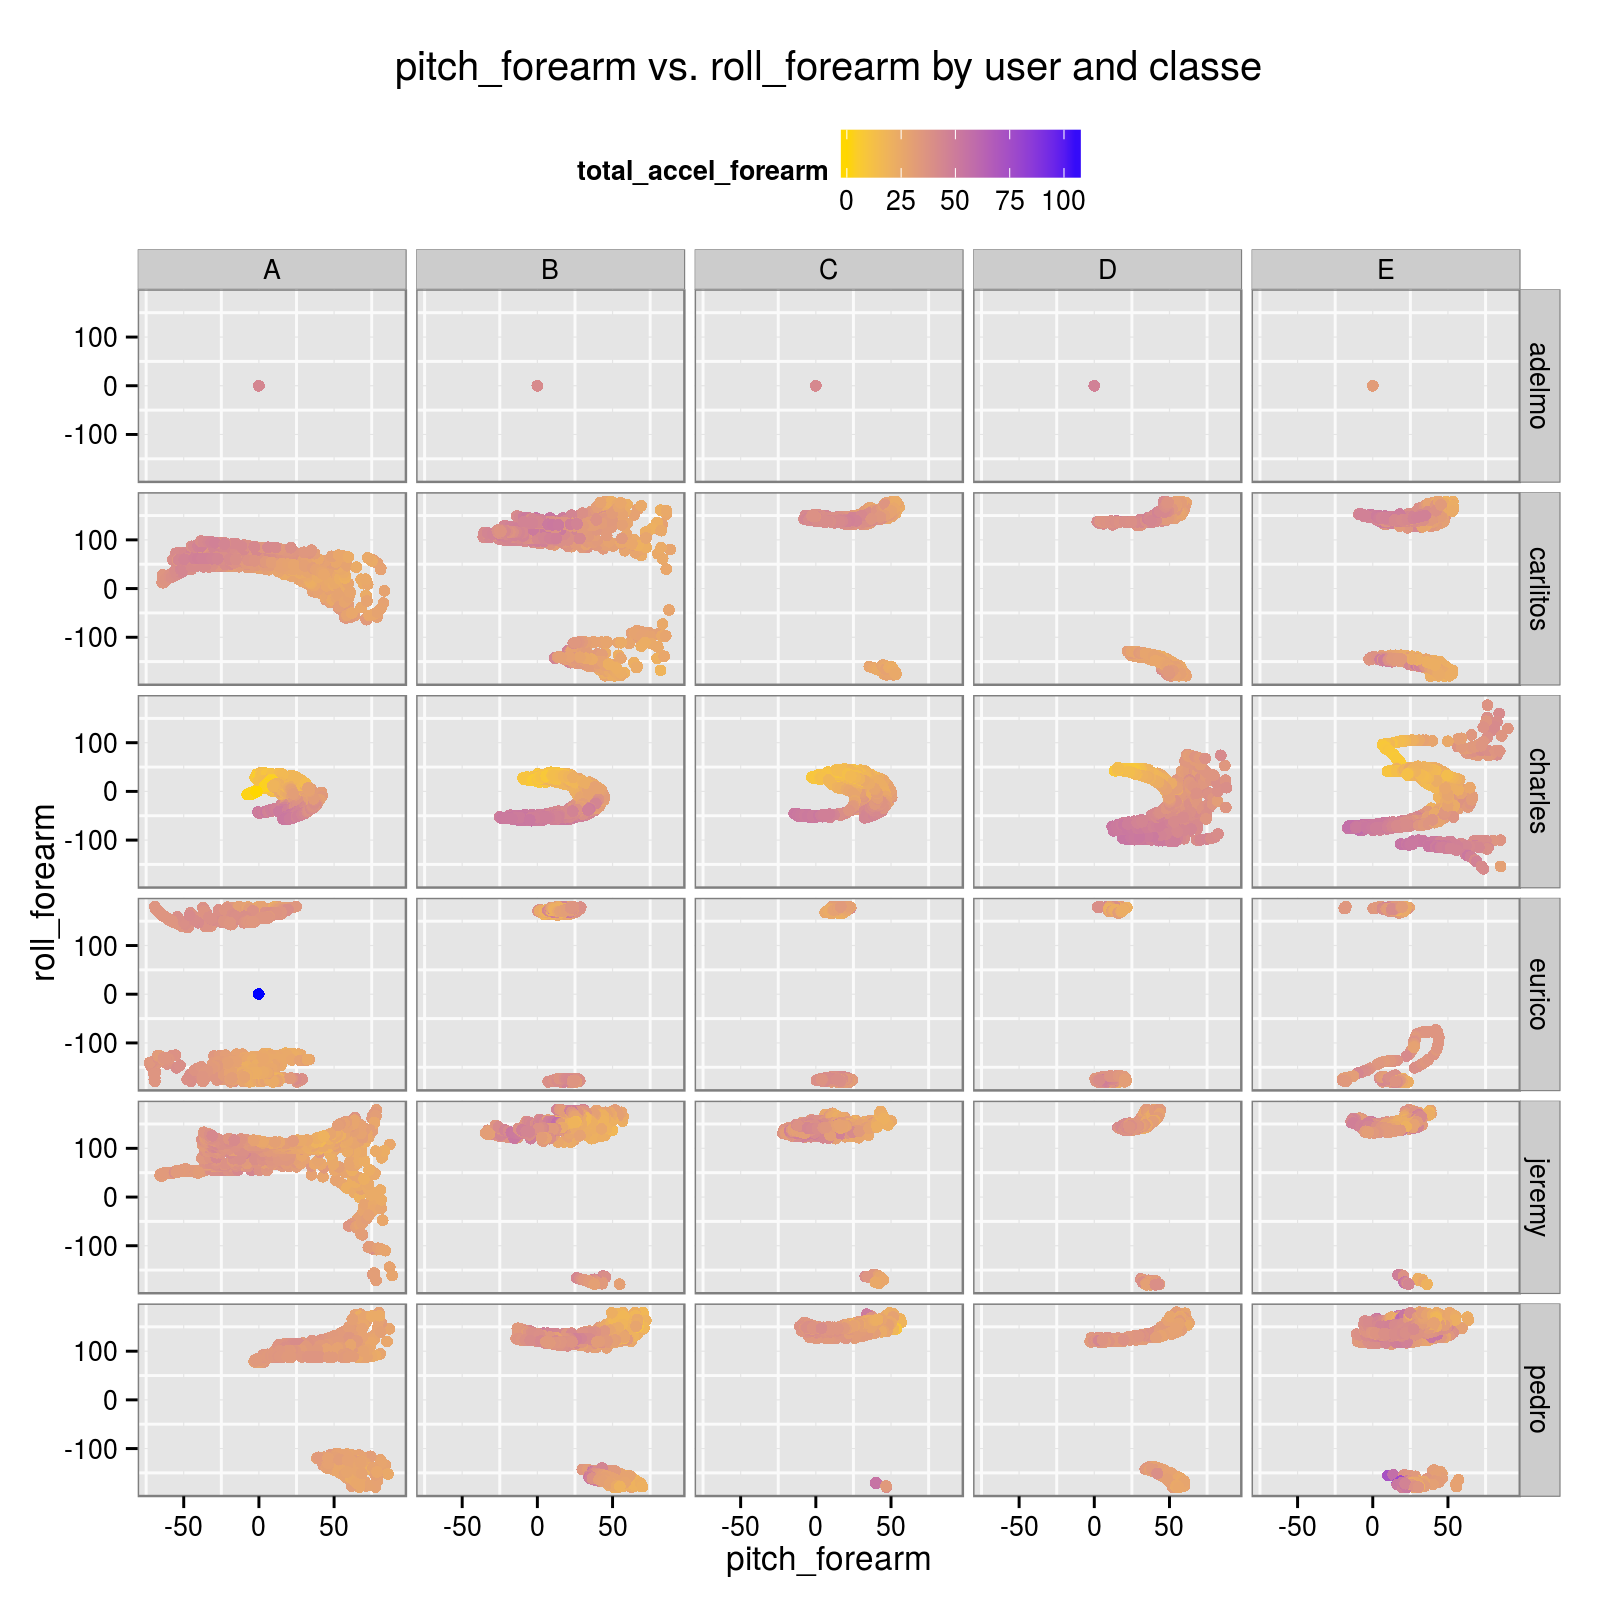
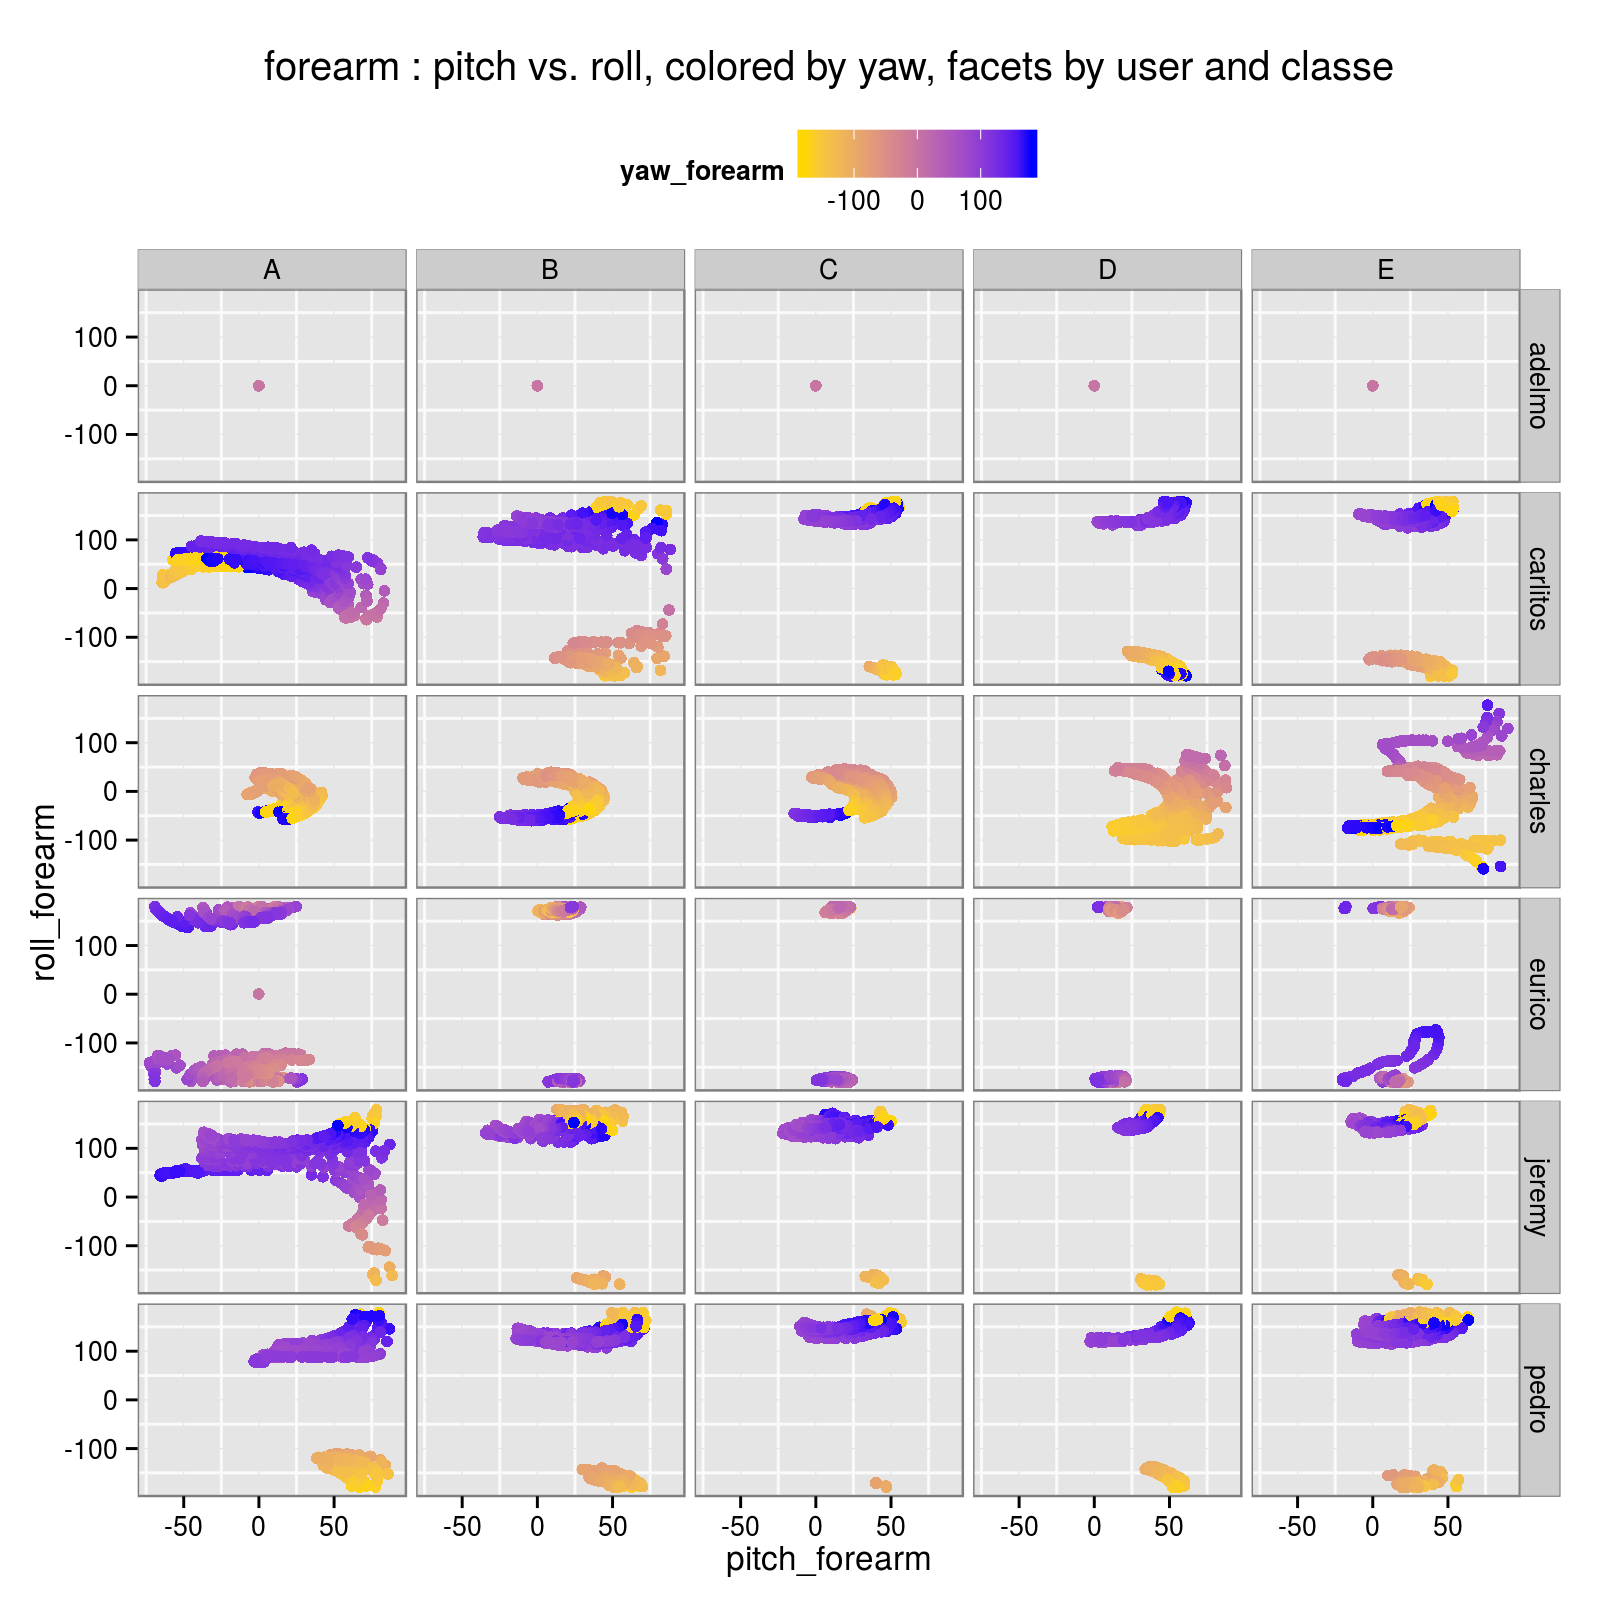
new plots, improved layout, variables and mapping

diff --git a/Human_Activity_2/report.html b/Human_Activity_2/report.html
@@ -337,30 +337,34 @@ p<span class="fl">.2</span> &lt;-<span class="st"> </span>p.base +
 </div>
 <div id="feature-vs.feature-plots-faceted-by-user-and-classe" class="section level3">
 <h3>Feature vs. Feature Plots faceted by <em>user</em> and <em>classe</em></h3>
-<p>This second set of example plots shows that there are indeed some reasonably recognizable patterns allowing to distinguish between different <code>classe</code> categories.</p>
+<p>This second set of example plots shows that there are indeed some reasonably recognizable patterns allowing to distinguish between different <code>classe</code> categories.<br />However, it is noticeable how the patterns are really different from user to user, which would imply that models might have to be highly personalized.</p>
 <p>The expectation is that the ML algorithm will be able to identify them and build on them a classification scheme.</p>
 <button class="toggle_plot_code">
 show plot code
 </button>
-<pre class="sourceCode r"><code class="sourceCode r">p &lt;-<span class="st"> </span><span class="kw">ggplot</span>(df, <span class="kw">aes</span>(pitch_arm, roll_arm)) +<span class="st"> </span><span class="kw">theme_bw</span>() +<span class="st"> </span>
+<pre class="sourceCode r"><code class="sourceCode r">myPalette &lt;-<span class="st"> </span><span class="kw">colorRampPalette</span>(<span class="kw">rev</span>(<span class="kw">brewer.pal</span>(<span class="dv">11</span>, <span class="st">&quot;Spectral&quot;</span>)))
+
+p &lt;-<span class="st"> </span><span class="kw">ggplot</span>(df, <span class="kw">aes</span>(pitch_arm, roll_arm)) +<span class="st"> </span><span class="kw">theme_bw</span>() +<span class="st"> </span>
 <span class="st">            </span><span class="kw">theme</span>(<span class="dt">legend.position =</span> <span class="st">&quot;top&quot;</span>, 
                   <span class="dt">panel.background =</span> <span class="kw">element_rect</span>(<span class="dt">fill =</span> <span class="st">&quot;grey90&quot;</span>)) +
-<span class="st">            </span><span class="kw">scale_color_gradient</span>(<span class="dt">low =</span> <span class="st">&quot;gold&quot;</span>, <span class="dt">high =</span> <span class="st">&quot;blue&quot;</span>) +
-<span class="st">            </span><span class="kw">geom_point</span>(<span class="kw">aes</span>(<span class="dt">col =</span> total_accel_arm)) +<span class="st"> </span>
-<span class="st">            </span><span class="kw">ggtitle</span>(<span class="st">&quot;pitch_arm vs. roll_arm by user and classe&quot;</span>)
+<span class="st">            </span><span class="co"># scale_color_gradient(low = &quot;gold&quot;, high = &quot;blue&quot;) +</span>
+<span class="st">            </span><span class="kw">scale_colour_gradientn</span>(<span class="dt">colours =</span> <span class="kw">myPalette</span>(<span class="dv">100</span>)) +<span class="st"> </span>
+<span class="st">            </span><span class="kw">geom_point</span>(<span class="kw">aes</span>(<span class="dt">col =</span> yaw_arm)) +<span class="st"> </span>
+<span class="st">            </span><span class="kw">ggtitle</span>(<span class="st">&quot;arm : pitch vs. roll, colored by yaw, facets by user and classe&quot;</span>)
 p +<span class="st"> </span><span class="kw">facet_grid</span>(user_name ~<span class="st"> </span>classe)</code></pre>
-<p><img src="figures/plots-more_2b-1.png" title="" alt="" width="800" style="display: block; margin: auto;" /></p>
+<p><img src="figures/plots-more_1-1.png" title="" alt="" width="800" style="display: block; margin: auto;" /></p>
 <button class="toggle_plot_code">
 show plot code
 </button>
 <pre class="sourceCode r"><code class="sourceCode r">p &lt;-<span class="st"> </span><span class="kw">ggplot</span>(df, <span class="kw">aes</span>(pitch_forearm, roll_forearm)) +<span class="st"> </span><span class="kw">theme_bw</span>() +<span class="st"> </span>
 <span class="st">            </span><span class="kw">theme</span>(<span class="dt">legend.position =</span> <span class="st">&quot;top&quot;</span>, 
                   <span class="dt">panel.background =</span> <span class="kw">element_rect</span>(<span class="dt">fill =</span> <span class="st">&quot;grey90&quot;</span>)) +
-<span class="st">            </span><span class="kw">scale_color_gradient</span>(<span class="dt">low =</span> <span class="st">&quot;gold&quot;</span>, <span class="dt">high =</span> <span class="st">&quot;blue&quot;</span>) +
-<span class="st">            </span><span class="kw">geom_point</span>(<span class="kw">aes</span>(<span class="dt">col =</span> total_accel_forearm)) +<span class="st"> </span>
-<span class="st">            </span><span class="kw">ggtitle</span>(<span class="st">&quot;pitch_forearm vs. roll_forearm by user and classe&quot;</span>)
+<span class="st">            </span><span class="co"># scale_color_gradient(low = &quot;gold&quot;, high = &quot;blue&quot;) +</span>
+<span class="st">            </span><span class="kw">scale_colour_gradientn</span>(<span class="dt">colours =</span> <span class="kw">myPalette</span>(<span class="dv">100</span>)) +<span class="st"> </span>
+<span class="st">            </span><span class="kw">geom_point</span>(<span class="kw">aes</span>(<span class="dt">col =</span> yaw_forearm)) +<span class="st"> </span>
+<span class="st">            </span><span class="kw">ggtitle</span>(<span class="st">&quot;forearm : pitch vs. roll, colored by yaw, facets by user and classe&quot;</span>)
 p +<span class="st"> </span><span class="kw">facet_grid</span>(user_name ~<span class="st"> </span>classe)</code></pre>
-<p><img src="figures/plots-more_1b-1.png" title="" alt="" width="800" style="display: block; margin: auto;" /></p>
+<p><img src="figures/plots-more_2-1.png" title="" alt="" width="800" style="display: block; margin: auto;" /></p>
 <p><a name="feature_selection"></a></p>
 </div>
 <div id="about-feature-selection" class="section level2">
@@ -381,8 +385,8 @@ p +<span class="st"> </span><span class="kw">facet_grid</span>(user_name ~<span 
 </div>
 </div>
 </div>
-<div id="data-splitting-new-training-and-testing-subsets" class="section level1">
-<h1>DATA SPLITTING: “NEW” <em>TRAINING</em> AND <em>TESTING</em> SUBSETS</h1>
+<div id="data-splitting-training-and-testing-subsets" class="section level1">
+<h1>DATA SPLITTING: <em>TRAINING</em> AND <em>TESTING</em> SUBSETS</h1>
 <p>For validation purposes we split the full dataset in two subsets:</p>
 <ul>
 <li>a <em>training</em> subset, comprising 75% of the data.</li>
@@ -1233,20 +1237,20 @@ answers &lt;-<span class="st"> </span><span class="kw">c</span>(<span class="st"
 <span class="co"># other attached packages:</span>
 <span class="co">#  [1] pROC_1.8            rpart_4.1-9         gbm_2.1.1           survival_2.38-1    </span>
 <span class="co">#  [5] partykit_1.0-1      randomForest_4.6-10 caret_6.0-47        lattice_0.20-31    </span>
-<span class="co">#  [9] rattle_3.4.1        corrplot_0.73       gridExtra_0.9.1     gtable_0.1.2       </span>
-<span class="co"># [13] ggplot2_1.0.1       plyr_1.8.3          knitr_1.10.5       </span>
+<span class="co">#  [9] rattle_3.4.1        corrplot_0.73       gridExtra_0.9.1     RColorBrewer_1.1-2 </span>
+<span class="co"># [13] gtable_0.1.2        ggplot2_1.0.1       plyr_1.8.3          knitr_1.10.5       </span>
 <span class="co"># </span>
 <span class="co"># loaded via a namespace (and not attached):</span>
-<span class="co">#  [1] BradleyTerry2_1.0-6 MASS_7.3-41         Matrix_1.2-0        RColorBrewer_1.1-2 </span>
-<span class="co">#  [5] Rcpp_0.11.6         SparseM_1.6         brglm_0.5-9         car_2.0-25         </span>
-<span class="co">#  [9] class_7.3-12        codetools_0.2-11    colorspace_1.2-6    digest_0.6.8       </span>
-<span class="co"># [13] e1071_1.6-4         evaluate_0.7        foreach_1.4.2       formatR_1.2        </span>
-<span class="co"># [17] gtools_3.4.2        htmltools_0.2.6     iterators_1.0.7     labeling_0.3       </span>
-<span class="co"># [21] lme4_1.1-8          magrittr_1.5        mgcv_1.8-6          minqa_1.2.4        </span>
-<span class="co"># [25] munsell_0.4.2       nlme_3.1-120        nloptr_1.0.4        nnet_7.3-9         </span>
-<span class="co"># [29] pbkrtest_0.4-2      proto_0.3-10        quantreg_5.11       reshape2_1.4.1     </span>
-<span class="co"># [33] rmarkdown_0.7       scales_0.2.4        stringi_0.5-5       stringr_1.0.0      </span>
-<span class="co"># [37] tools_3.1.3         yaml_2.1.13</span></code></pre>
+<span class="co">#  [1] BradleyTerry2_1.0-6 MASS_7.3-41         Matrix_1.2-0        Rcpp_0.11.6        </span>
+<span class="co">#  [5] SparseM_1.6         brglm_0.5-9         car_2.0-25          class_7.3-12       </span>
+<span class="co">#  [9] codetools_0.2-11    colorspace_1.2-6    digest_0.6.8        e1071_1.6-4        </span>
+<span class="co"># [13] evaluate_0.7        foreach_1.4.2       formatR_1.2         gtools_3.4.2       </span>
+<span class="co"># [17] htmltools_0.2.6     iterators_1.0.7     labeling_0.3        lme4_1.1-8         </span>
+<span class="co"># [21] magrittr_1.5        mgcv_1.8-6          minqa_1.2.4         munsell_0.4.2      </span>
+<span class="co"># [25] nlme_3.1-120        nloptr_1.0.4        nnet_7.3-9          pbkrtest_0.4-2     </span>
+<span class="co"># [29] proto_0.3-10        quantreg_5.11       reshape2_1.4.1      rmarkdown_0.7      </span>
+<span class="co"># [33] scales_0.2.4        stringi_0.5-5       stringr_1.0.0       tools_3.1.3        </span>
+<span class="co"># [37] yaml_2.1.13</span></code></pre>
 <hr />
 </div>
 </div>
